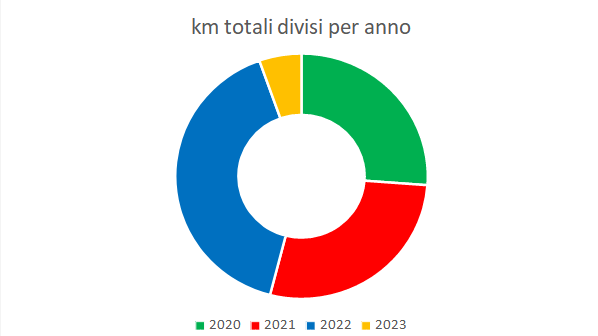
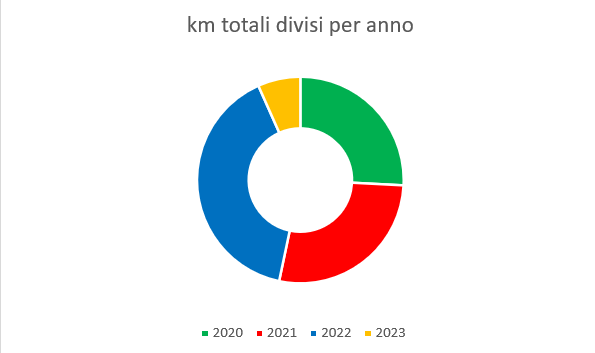
Add files via upload

Changed region(s): [[0.2723, 0.1488, 0.7261, 0.8929], [0.3025, 0.0298, 0.6958, 0.119], [0.3025, 0.9226, 0.6958, 0.9821]]

diff --git a/Statistiche.html b/Statistiche.html
@@ -66,7 +66,7 @@
             </td>
 
             <td>
-                26%
+                25,8%
             </td>
 
         </tr>
@@ -82,7 +82,7 @@
             </td>
 
             <td>
-                27,7%
+                27,5%
             </td>
         </tr>
 
@@ -96,7 +96,7 @@
             </td>
     
             <td>
-                40,3%
+                40,0%
             </td>
     
         </tr>
@@ -107,11 +107,11 @@
             </td>
     
             <td>
-                572
+                634
             </td>
     
             <td>
-                6,1%
+                6,7%
             </td>
     
         </tr>
@@ -123,8 +123,8 @@
     <br>
 
     <br>
-    <p>totale km fatti 9450</p>
-    <p>km medi percorsi 70,52 km </p>
+    <p>totale km fatti 9512</p>
+    <p>km medi percorsi 70,46 km </p>
     <br>
 
     <p class="corsivo">

diff --git a/Statistiche/Statistiche2023.html b/Statistiche/Statistiche2023.html
@@ -45,31 +45,31 @@
         <tr>
             <td>Gennaio</td>
             <td>127</td>
-            <td> 22,20%</td>
+            <td> 20,03%</td>
         </tr>
 
         <tr>
             <td>Febbraio</td>
             <td>148</td>
-            <td>25,87%</td>
+            <td>23,34%</td>
         </tr>
 
         <tr>
             <td>Marzo</td>
             <td>194</td>
-            <td>33,92%</td>
+            <td>30,60%</td>
         </tr>
 
         <tr>
             <td>Aprile</td>
             <td>103</td>
-            <td>18,01%</td>
+            <td>16,25</td>
         </tr>
 
         <tr>
             <td>Maggio</td>
-            <td></td>
-            <td></td>
+            <td>62</td>
+            <td>9,78%</td>
         </tr>
 
     </table>

diff --git a/Primavera/Primavera2023.html b/Primavera/Primavera2023.html
@@ -117,11 +117,22 @@
             <td>km</td>
         </tr>
 
+        <tr>
+            <td>6 Maggio</td>
+            <td>6</td>
+            <td><a
+                    href="https://www.komoot.com/it-it/tour/1107656936?share_token=aUwNts99dlgFka2aLkif14h5Wwb8evCg4LXbQq2dpbRHGV9zdi&ref=wtd">
+                    Flambro + Rivignano</a>
+            </td>
+            <td>62</td>
+            <td>km</td>
+        </tr>
+
     </table>
 
     <br>
-    <p> totale km 297</p>
-    <p>km medi percorsi 59,40</p>
+    <p> totale km 359</p>
+    <p>km medi percorsi 59,83</p>
     <br>
 </body>
 
